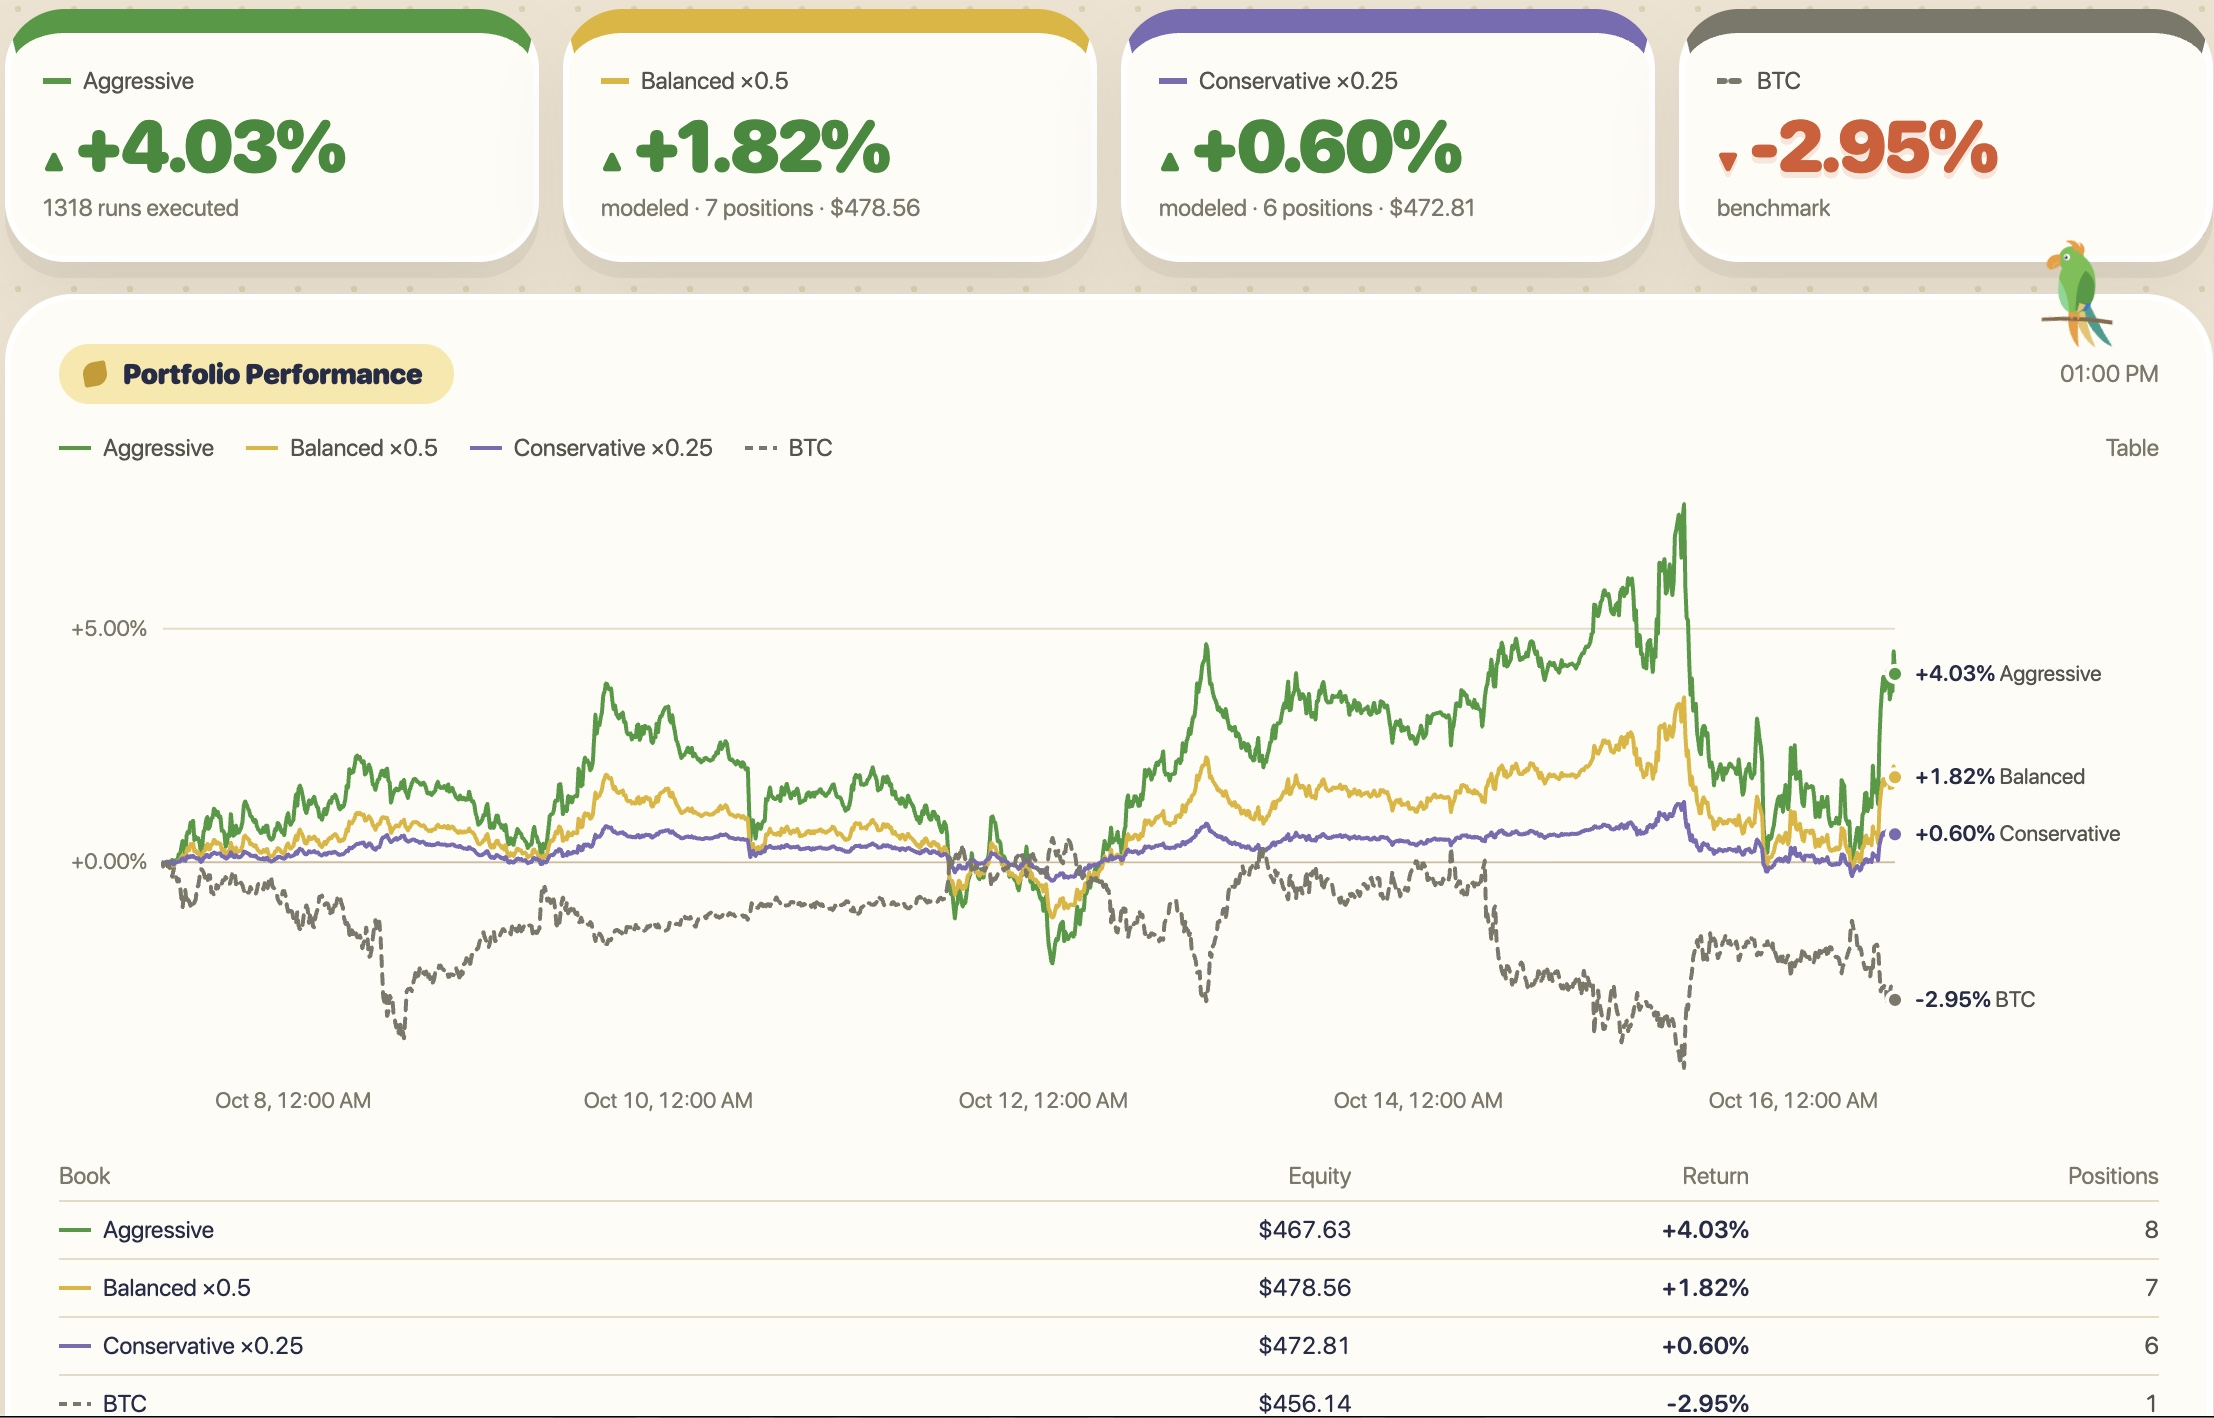
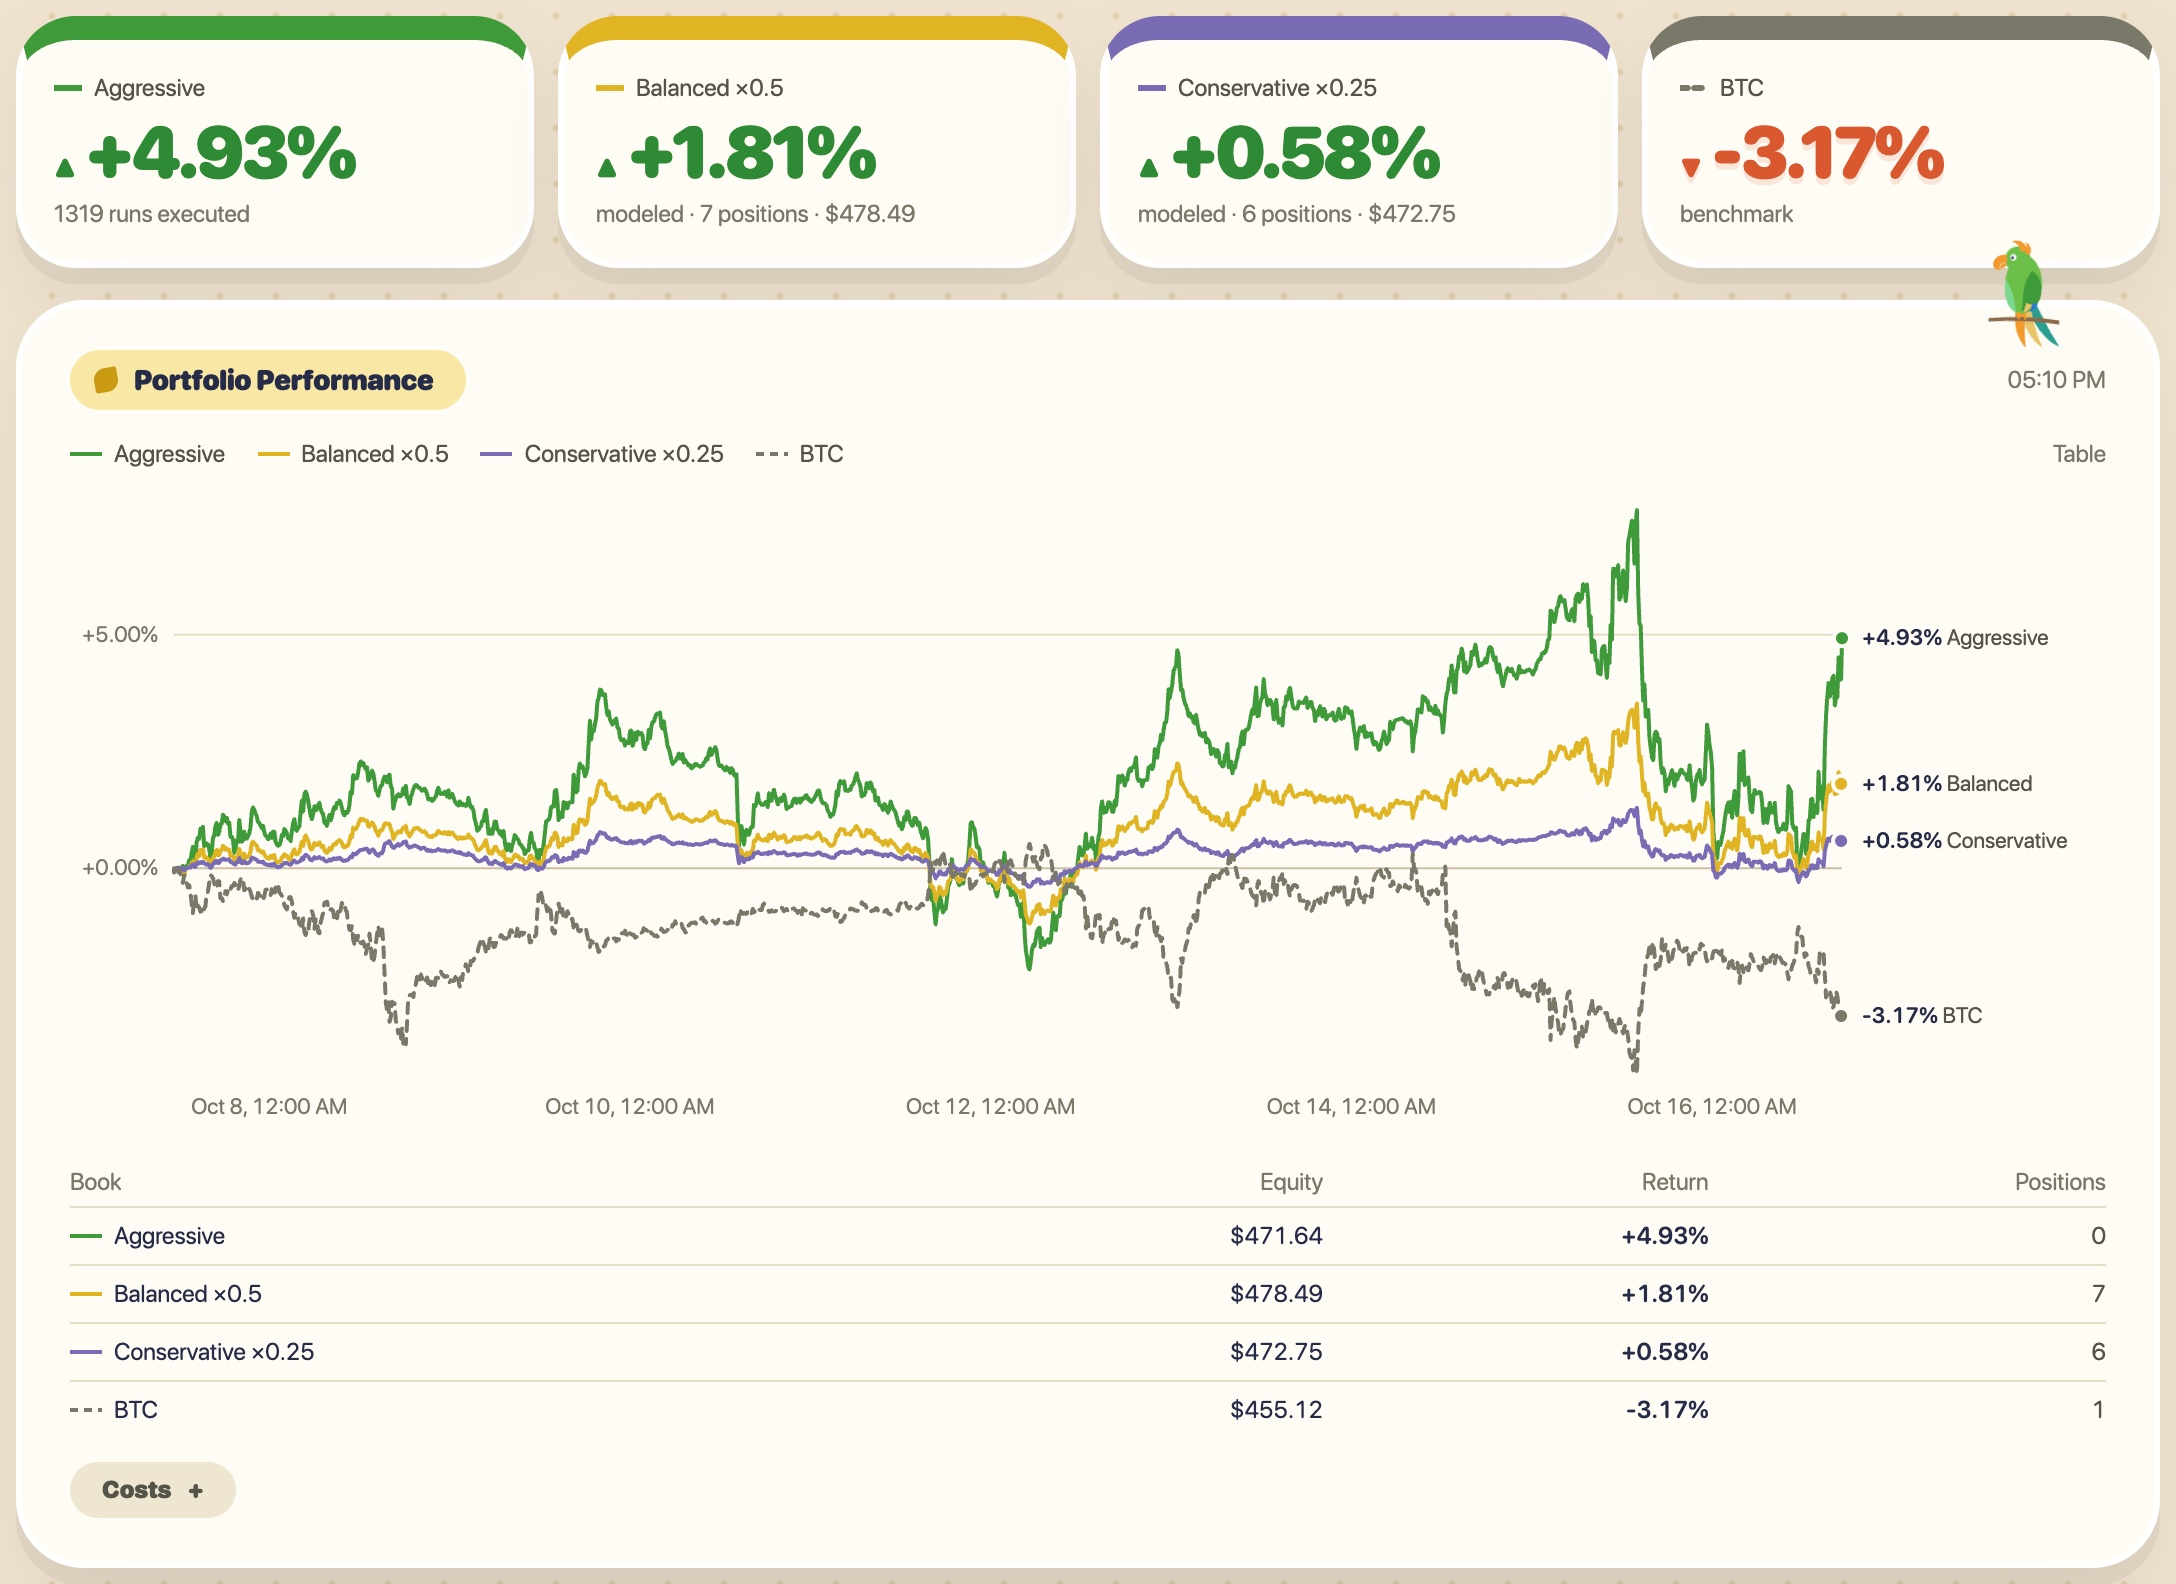
README: re-render the shutdown image at the flatten
The old screenshot was taken at 17:00 UTC, so it showed +4.03%, 1318 runs and BTC -2.95%,
while the text describes the 17:17 UTC flatten (+4.9%, 1,319 runs, BTC -3.2%). The new image
is the dashboard re-rendered from data/final-export-2026-10-16: +4.93% ($471.64), 1319 runs,
BTC -3.17%. The caption says it is a re-render and that the live line ends at the flatten equity.

diff --git a/README.md b/README.md
@@ -9,12 +9,14 @@ It traded live with ~450$ USDC, and in a short track record showed returns of 4.
 Challenge. [Dashboard](https://perpparrot.vercel.app/) (offline since the shutdown) ·
 [Documentation map](docs/README.md) · [Operations](docs/ops/RUNBOOK.md).
 
-## Live UI minutes before shut down (2026-10-16)
+## Live UI at shutdown (2026-10-16)
 
-![Performance right before shutdown](docs/images/performance-at-shutdown.jpg)
+![Performance at shutdown](docs/images/performance-at-shutdown.jpg)
 
-*The dashboard at 17:00 UTC on 2026-10-16. Aggressive is the live account;
-Balanced ×0.5 and Conservative ×0.25 are modeled at lower leverage; BTC is the benchmark.*
+*The dashboard as of the 17:17 UTC flatten, re-rendered from the
+[final export](data/final-export-2026-10-16/) because the site is offline. Aggressive is the
+live account, and its last point is the flatten equity. Balanced ×0.5 and Conservative ×0.25 are
+modeled at lower leverage, and BTC is the benchmark; those three end at the 17:10 run.*
 
 PerpParrot traded the team's own Hyperliquid account (0x7269…70f7) live from
 2026-10-07 12:20 UTC until a flatten at 2026-10-16 17:17 UTC. It was shut down around a week after the hackathon ended; the dashboard is offline.
